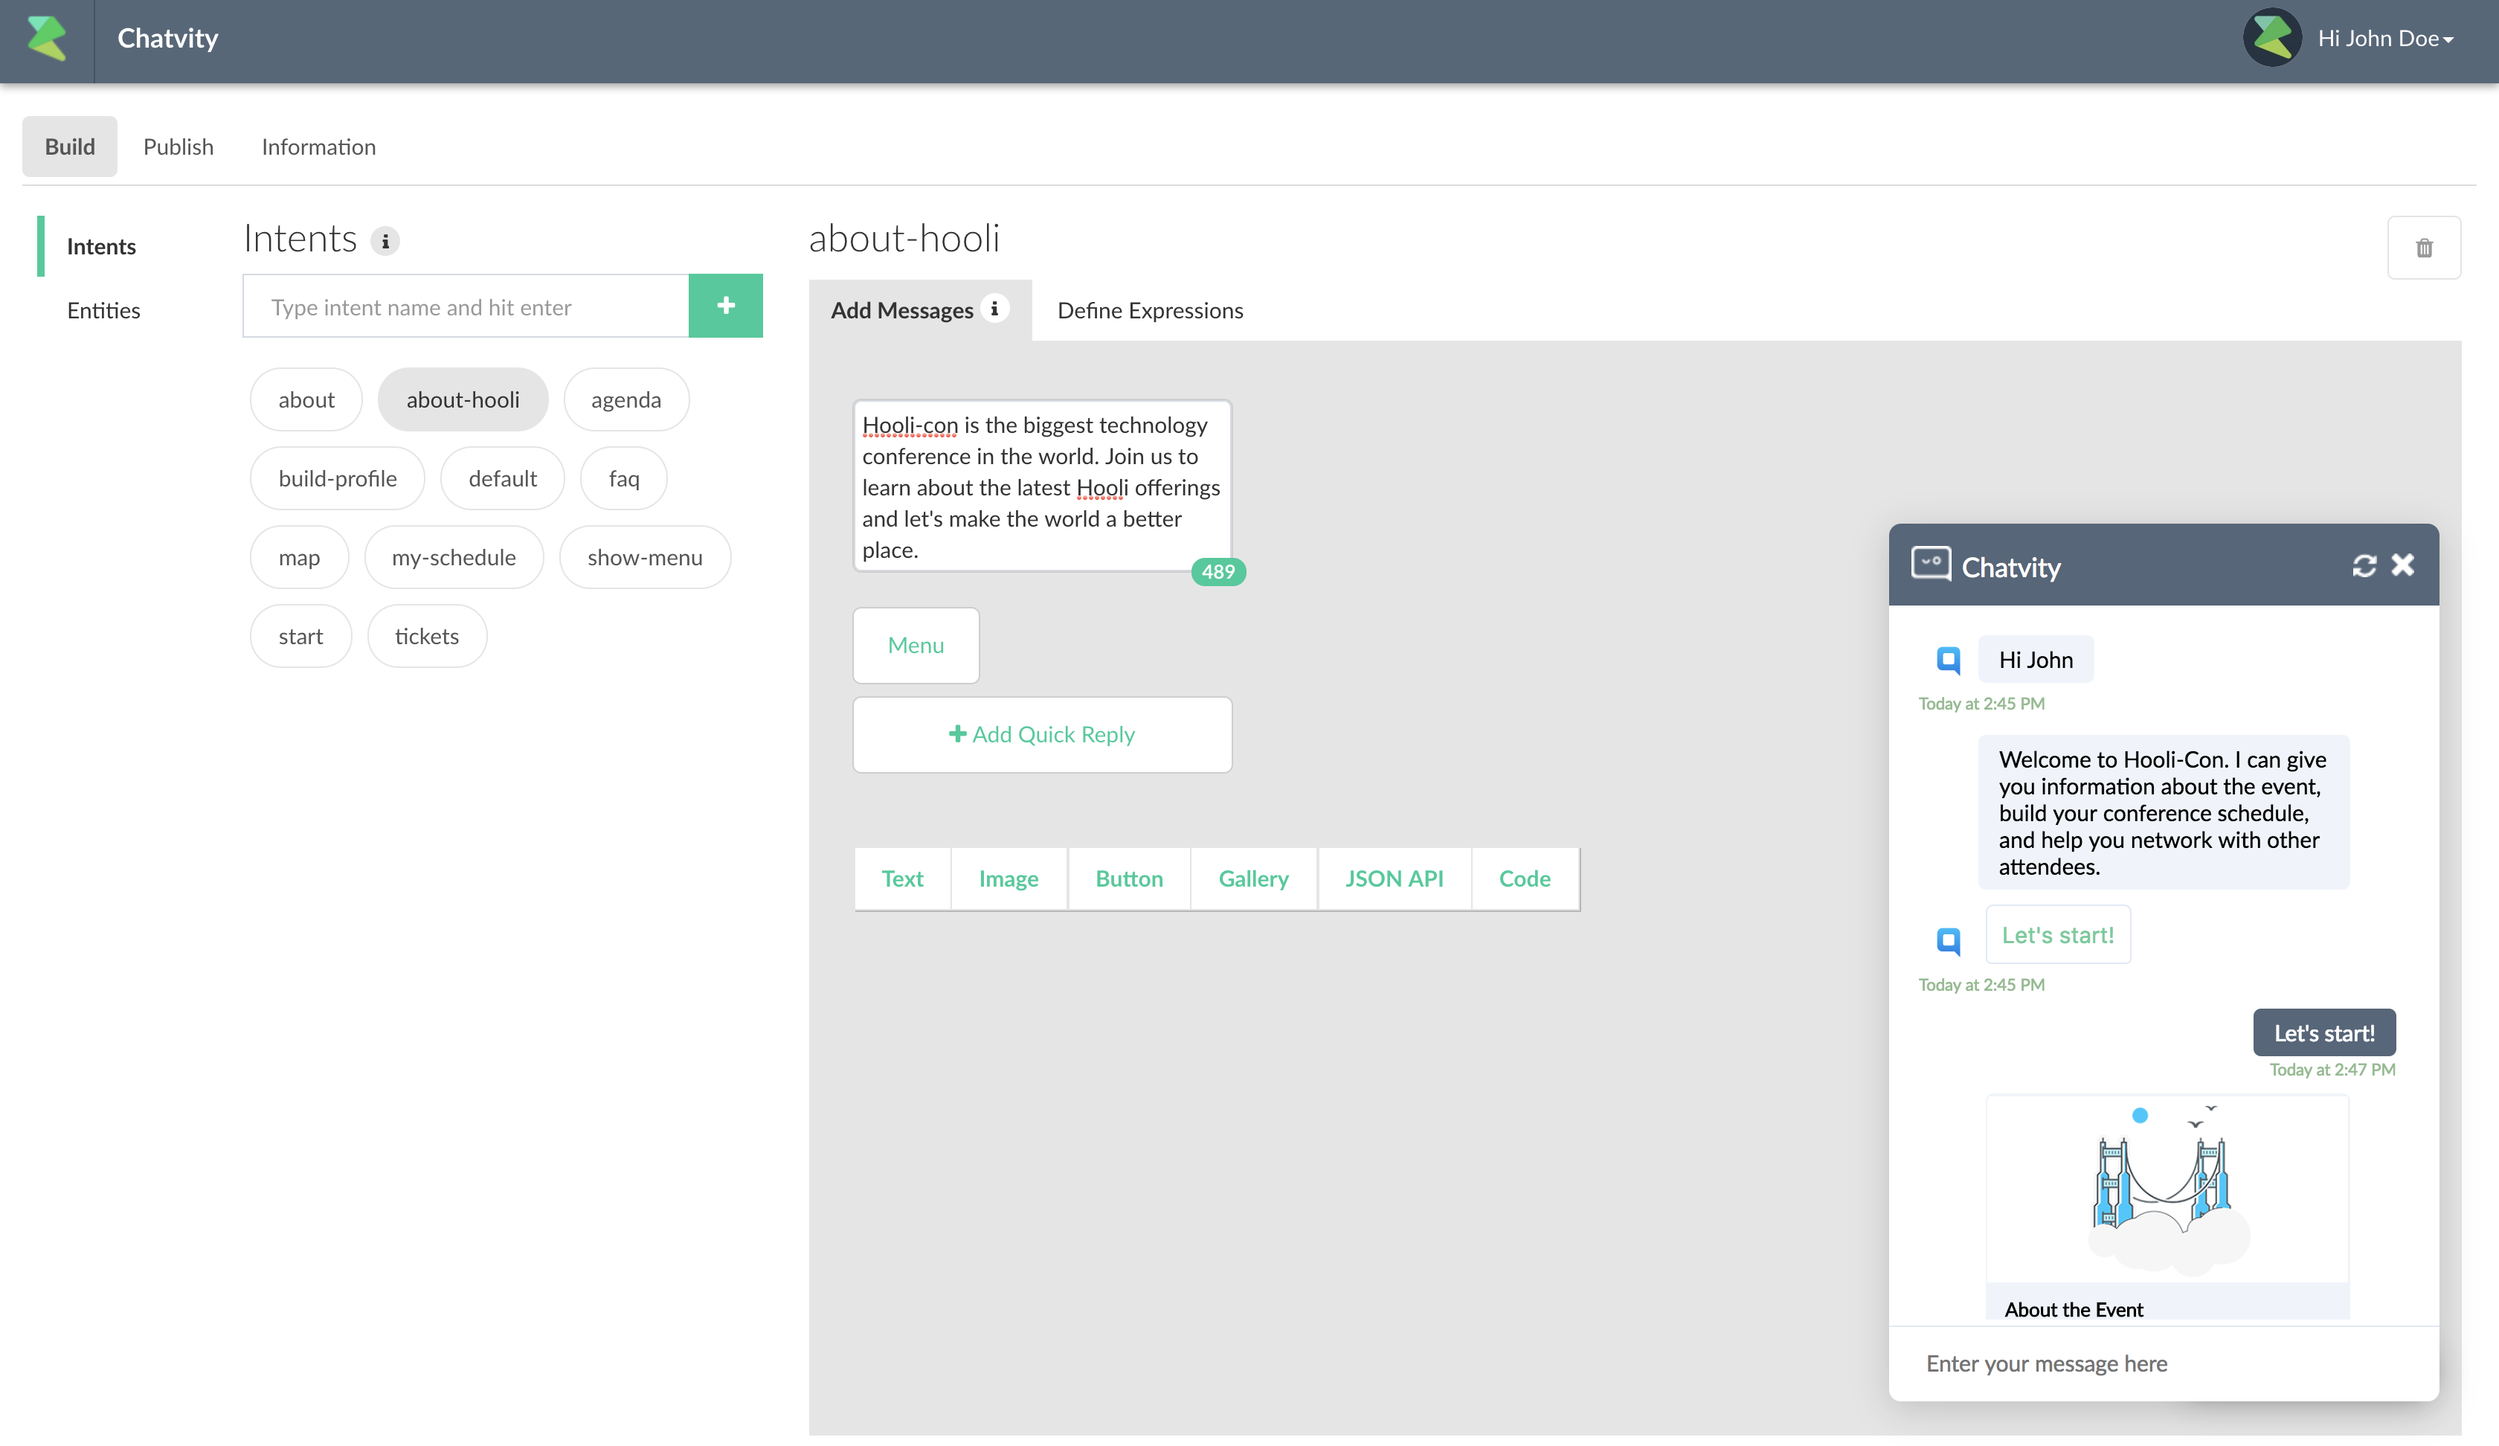
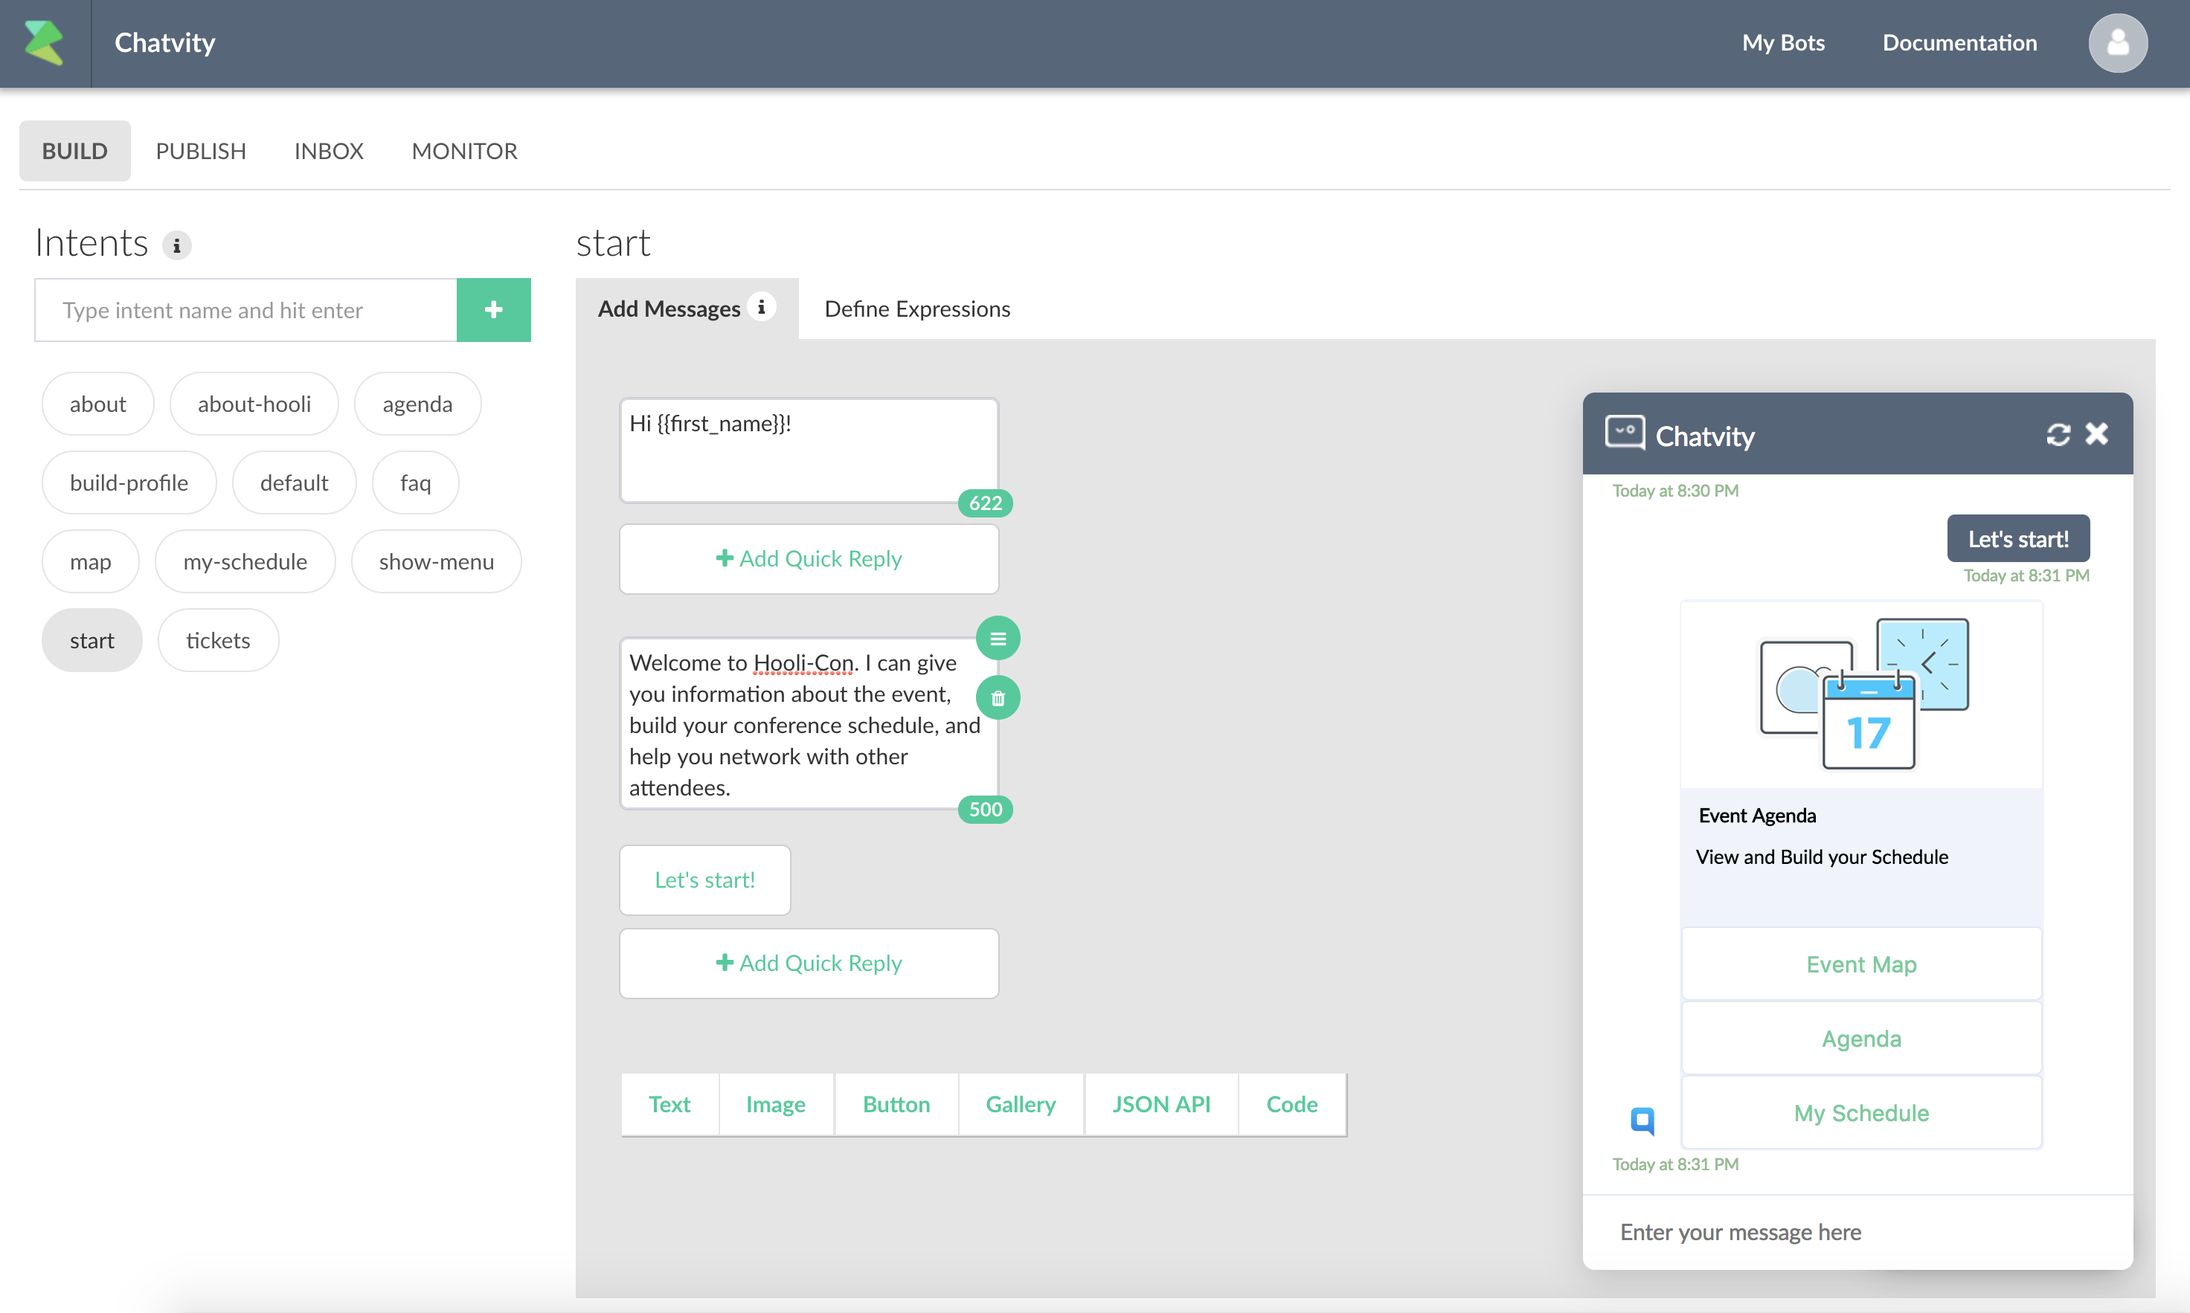
getting started

diff --git a/getting-started.md b/getting-started.md
@@ -1,29 +1,44 @@
-# Introduction
+# Getting Started
 
-You will first build the elements you need to make the Facebook chat bot with Flickr photo’s work, make sure you have prepped your system as mentioned before.
+Once the account is created. Next step is to create your first bot. 
 
+Once you are in your dashboard, press the "+ Create a bot" button. This will bring the create bot dialog:
 
-You will:
+![](create-bot.png)
 
-> Create the bot files
-
-> Get a Flickr API key
-
-> Add the API to the bot code
-
-> Deploy the bot
-
-> Create a Facebook page \(mandatory for all FB bots\)
-
-> Create a Facebook App ID \(Facebook developer\)
-
-> Connect the Facebook App ID to the Facebook page
-
-> Connect the Recime bot to the Facebook App ID
+Enter title, description of the of the bot. Upload an icon (256x256) and finally choose your language. 
 
 
+Press "Submit".
 
-So at one point you will have multiple screens open, but we promise, all will come together at the end!
+This will create a blank bot with `start`, `default` and `about` intent. 
+
+![](blank-bot.png)
+
+
+Intents are the building blocks of your bot. An intent contains conversation blocks and expressions that can trigger it. You can also trigger an intent by an user event like button click.
+
+Here are the definiation of the basic intents that are the building blocks of your bot.
+
+| Intent Name | Description | Required |
+| -- | -- | -- |
+| `start` | Defines the start of the conversation. It is called automatically when the conversation starts | Y |
+| `about` | The intent is callled when some types "about" or any about event triggered by the user.  This contains the default branding information.  | N |
+| `default` | Contains default message shown to a user when the bot does not understand an expression. | Y |
+
+Test your bot by clicking on the "Test the Bot" button.
+
+![](getting-started-test.png)
+
+
+You can define expressions from "Define Expressions" tab. The default template already creates a few for you. In this case, messages in `start` intent can also be triggered by typing "Hi", "Hello" or "Start". 
+
+![](getting-started-expressions.png)
+
+
+
+
+
 
 
 

diff --git a/SUMMARY.md b/SUMMARY.md
@@ -2,6 +2,7 @@
 
 * [Introduction](README.md)
 * [Registration](register.md)
+* [Getting Started](getting-started.md) 
 * [Command Line Interface](command-line-interface.md)
 * [Build](build.md)
 * [Debugging](debugging.md)
